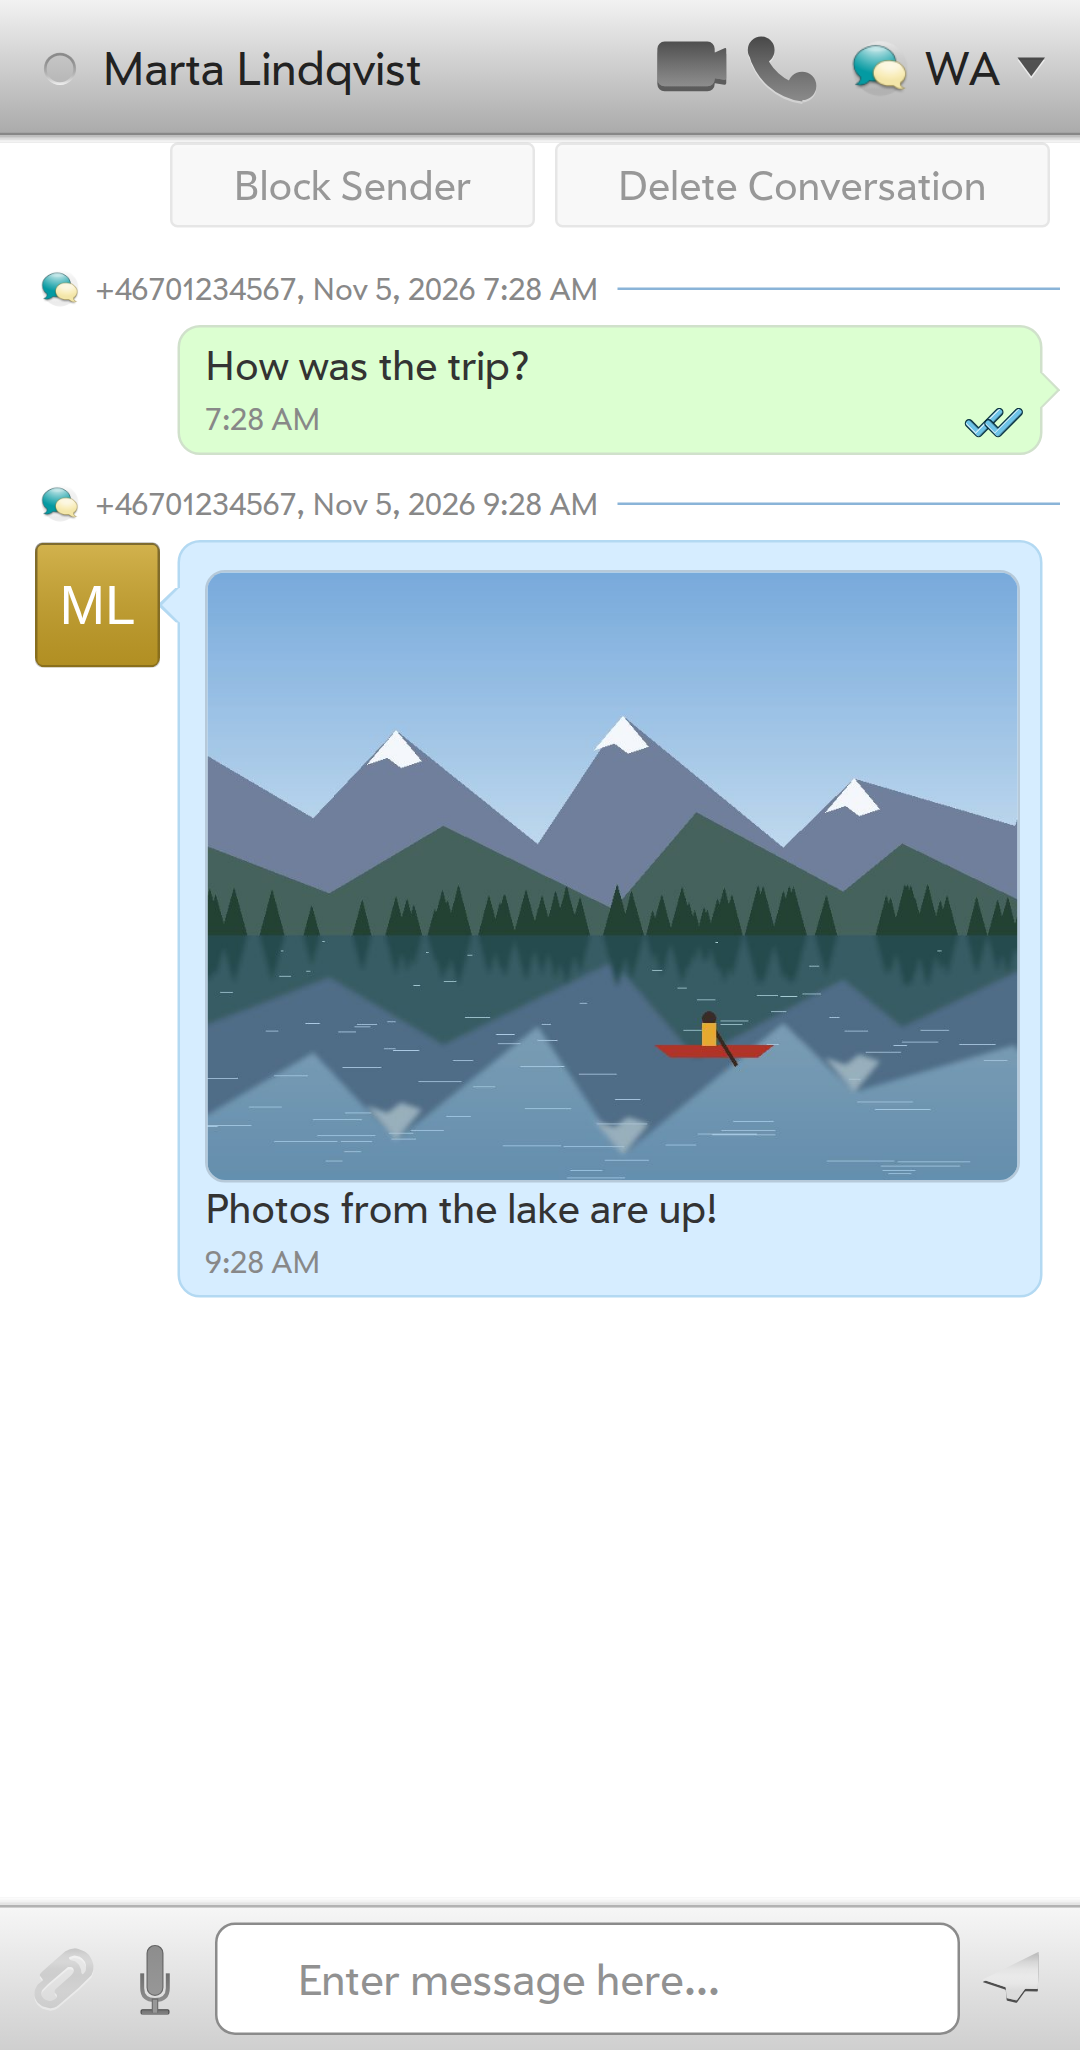
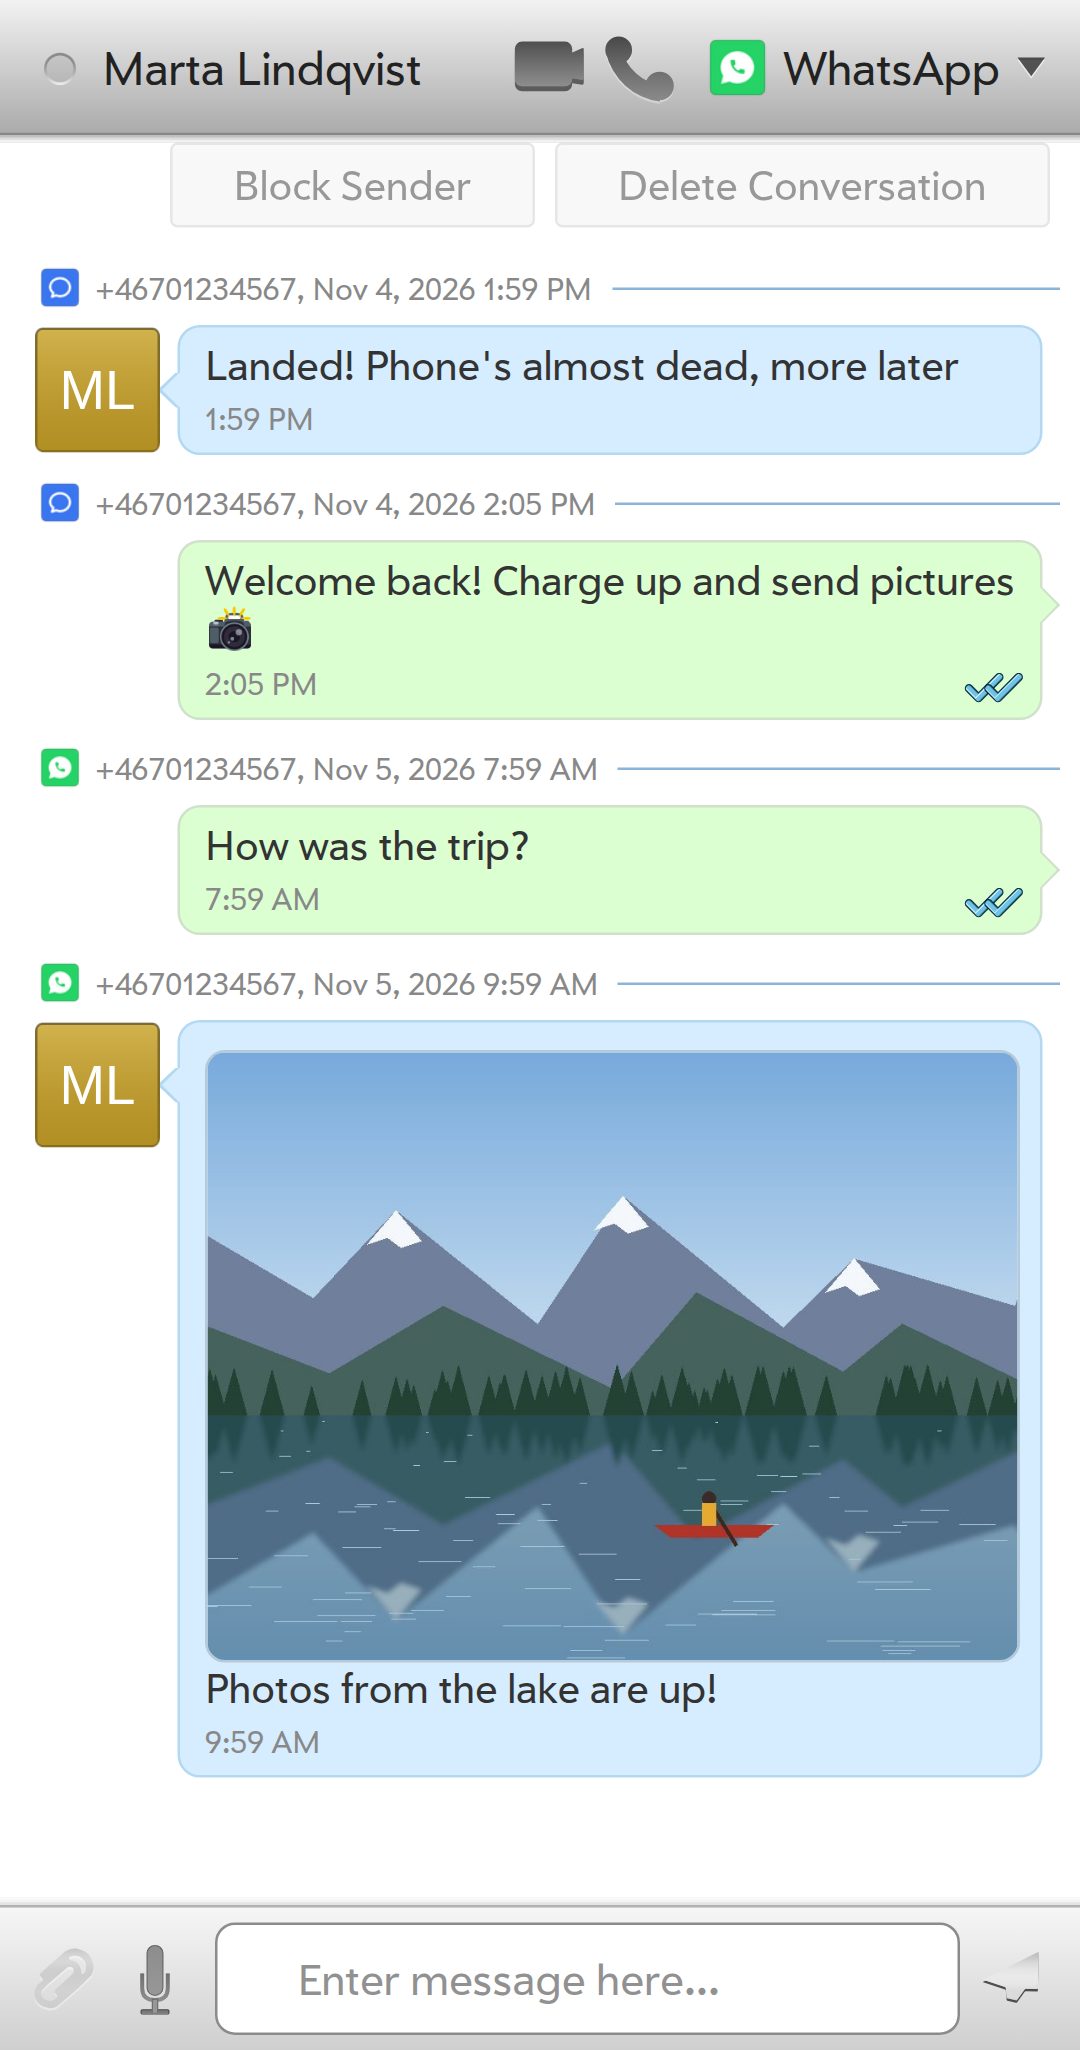
Mock data: Name and draw the services as the account templates do
The mock accounts were named "TG", "WA" and "DC" and all used the
Messaging app's own icon, so the screenshots showed the same bubble in
every divider and header: which service a message came in or goes out on
could not be seen.

Give them the names and icon fields of the device's templates
(com.palm.telegram, com.palm.whatsapp, com.palm.signal, com.palm.discord,
com.palm.palmprofile), the "splitter" the dividers show included, and add
a Signal account. Marta's chat starts on Signal and moves to WhatsApp, so
the dividers start again on the change of service.

The icons are the connectors' and are not added here. shoot.sh copies
them into the pack from ACCOUNTS_DIR or an attached device, as it does
the fonts; without them the app hides the icons that fail to load. The
screenshots are taken again.

diff --git a/app/src/data/mockDb.js b/app/src/data/mockDb.js
@@ -82,7 +82,7 @@ var people = [
         contactIds: ["contact-marta"],
         name: { givenName: "Marta", familyName: "Lindqvist" },
         phoneNumbers: [{ value: "+46701234567", type: "type_mobile" }],
-        ims: [{ value: "+46701234567", type: "type_whatsapp" }],
+        ims: [{ value: "+46701234567", type: "type_whatsapp" }, { value: "+46701234567", type: "type_signal" }],
         photos: avatar("marta")
     },
     {
@@ -435,7 +435,22 @@ var messages = [
         to: [{ addr: "chi_ng" }], flags: { visible: true }
     },
 
-    // thread-marta: a photo with a caption, and a reply.
+    // thread-marta: Signal first, then WhatsApp with a photo; the dividers start again on the
+    // change of service, since both share the number.
+    {
+        _id: "msg-m0", _kind: "com.palm.message:1", conversations: ["thread-marta"],
+        folder: "inbox", messageText: "Landed! Phone's almost dead, more later",
+        localTimestamp: ago(1, 2), timestamp: ago(1, 2), status: "successful",
+        serviceName: "type_signal", from: { addr: "+46701234567", name: "Marta Lindqvist" },
+        flags: { visible: true, read: true }
+    },
+    {
+        _id: "msg-m0b", _kind: "com.palm.message:1", conversations: ["thread-marta"],
+        folder: "outbox", messageText: "Welcome back! Charge up and send pictures 📸",
+        localTimestamp: ago(1, 1.9), timestamp: ago(1, 1.9), status: "successful",
+        serviceName: "type_signal", deliveryStatus: "read",
+        to: [{ addr: "+46701234567" }], flags: { visible: true }
+    },
     {
         _id: "msg-m1", _kind: "com.palm.message:1", conversations: ["thread-marta"],
         folder: "outbox", messageText: "How was the trip?",
@@ -541,6 +556,11 @@ var loginstates = [
         state: "online", availability: 0, customMessage: ""
     },
     {
+        _id: "login-signal", _kind: "com.palm.imloginstate:1",
+        accountId: "acct-signal", serviceName: "type_signal", username: "+15555550100",
+        state: "online", availability: 0, customMessage: ""
+    },
+    {
         _id: "login-discord", _kind: "com.palm.imloginstate:1",
         accountId: "acct-discord", serviceName: "type_discord", username: "you#0001",
         state: "offline", availability: 4, customMessage: ""
@@ -549,57 +569,53 @@ var loginstates = [
 
 // --- accounts (the listAccounts response shape) -------------------------------------------
 
+// Names and icon fields as the device's account templates (/usr/palm/public/accounts) carry them,
+// "splitter" included: the small icon the message dividers show, as in the legacy app. The icons
+// themselves are the connectors' and are not in this repo; tools/screenshots/shoot.sh copies them
+// into mock/accounts from a device. Without them the app hides the icons that fail to load.
+function templateIcons(templateId, name) {
+    var dir = "mock/accounts/" + templateId + "/images/" + name;
+    return { loc_32x32: dir + "-32x32.png", loc_48x48: dir + "-48x48.png", splitter: dir + "-32x32.png" };
+}
+
+function imAccount(service, name, username, extra) {
+    var templateId = "com.palm." + service;
+    var cap = {
+        _id: "cap-" + service, capability: "MESSAGING", capabilitySubtype: "IM",
+        id: templateId + ".im", serviceName: "type_" + service,
+        loc_shortName: name, icon: templateIcons(templateId, service),
+        dbkinds: { imcommand: "com.palm.imcommand." + service + ":1" },
+        chatWithNonBuddies: true
+    };
+    for (var k in extra || {}) {
+        if (extra.hasOwnProperty(k)) { cap[k] = extra[k]; }
+    }
+    return {
+        _id: "acct-" + service, templateId: templateId, username: username, alias: name,
+        loc_name: name, icon: templateIcons(templateId, service),
+        capabilityProviders: [cap].concat(cap.phone ? [{
+            _id: "cap-" + service + "-phone", capability: "PHONE",
+            id: templateId + ".call", serviceName: "type_" + service, videoFormat: "both"
+        }] : [])
+    };
+}
+
 var accounts = [
-    {
-        _id: "acct-telegram", templateId: "org.webosports.telegram",
-        username: "you@telegram", alias: "Telegram", loc_name: "Telegram",
-        capabilityProviders: [{
-            _id: "cap-telegram", capability: "MESSAGING", capabilitySubtype: "IM",
-            id: "org.webosports.telegram.im", serviceName: "type_telegram",
-            loc_name: "Telegram", loc_shortName: "TG",
-            icon: { loc_32x32: "assets/messaging-48x48.png", loc_48x48: "assets/messaging-48x48.png" },
-            dbkinds: { imcommand: "com.palm.imcommand.telegram:1", immessage: "com.palm.immessage.telegram:1" },
-            chatWithNonBuddies: true,
-            reactions: { supported: true },
-            authContacts: ["Telegram"]
-        }]
-    },
-    {
-        _id: "acct-whatsapp", templateId: "org.webosports.whatsapp",
-        username: "+15555550100", alias: "WhatsApp", loc_name: "WhatsApp",
-        capabilityProviders: [{
-            _id: "cap-whatsapp", capability: "MESSAGING", capabilitySubtype: "IM",
-            id: "org.webosports.whatsapp.im", serviceName: "type_whatsapp",
-            loc_name: "WhatsApp", loc_shortName: "WA",
-            icon: { loc_32x32: "assets/messaging-48x48.png", loc_48x48: "assets/messaging-48x48.png" },
-            dbkinds: { imcommand: "com.palm.imcommand.whatsapp:1" },
-            chatWithNonBuddies: true,
-            reactions: { supported: true }
-        }, {
-            _id: "cap-whatsapp-phone", capability: "PHONE",
-            serviceName: "type_whatsapp", videoFormat: "both"
-        }]
-    },
-    {
-        _id: "acct-discord", templateId: "org.webosports.discord",
-        username: "you#0001", alias: "Discord", loc_name: "Discord",
-        capabilityProviders: [{
-            _id: "cap-discord", capability: "MESSAGING", capabilitySubtype: "IM",
-            id: "org.webosports.discord.im", serviceName: "type_discord",
-            loc_name: "Discord", loc_shortName: "DC",
-            icon: { loc_32x32: "assets/messaging-48x48.png", loc_48x48: "assets/messaging-48x48.png" },
-            dbkinds: { imcommand: "com.palm.imcommand.discord:1" },
-            chatWithNonBuddies: false
-        }]
-    },
+    imAccount("telegram", "Telegram", "you@telegram", {
+        dbkinds: { imcommand: "com.palm.imcommand.telegram:1", immessage: "com.palm.immessage.telegram:1" },
+        reactions: { supported: true }, authContacts: ["Telegram"]
+    }),
+    imAccount("whatsapp", "WhatsApp", "+15555550100", { reactions: { supported: true }, phone: true }),
+    imAccount("signal", "Signal", "+15555550100", { reactions: { supported: true } }),
+    imAccount("discord", "Discord", "you#0001", { chatWithNonBuddies: false }),
     {
         _id: "acct-sms", templateId: "com.palm.palmprofile",
-        username: "", alias: "Text Messaging", loc_name: "Text Messaging",
+        username: "", alias: "HP webOS Account", loc_name: "HP webOS Account",
         capabilityProviders: [{
             _id: "cap-sms", capability: "MESSAGING", capabilitySubtype: "SMS",
-            id: "com.palm.sms", serviceName: "sms",
-            loc_name: "Text Messaging", loc_shortName: "SMS",
-            icon: { loc_32x32: "assets/messaging-48x48.png", loc_48x48: "assets/messaging-48x48.png" }
+            id: "com.palm.palmprofile.sms", serviceName: "sms",
+            loc_name: "SMS Account", loc_shortName: "Text",
+            icon: templateIcons("com.palm.palmprofile", "sms")
         }]
     }
 ];

diff --git a/README.md b/README.md
@@ -60,8 +60,9 @@ Tablet (TouchPad card, 1024x748):
 
 The people, chats and pictures are made up: they are the in-browser mock data
 (`app/src/data/mockDb.js`, `app/mock`), rendered in headless Chromium with the
-Prelude fonts. `tools/screenshots/shoot.sh` makes them again; see the top of
-that script for what it needs.
+Prelude fonts and the service icons of the LuneOS account templates.
+`tools/screenshots/shoot.sh` makes them again; see the top of that script for
+what it needs.
 
 ## Contributing
 
